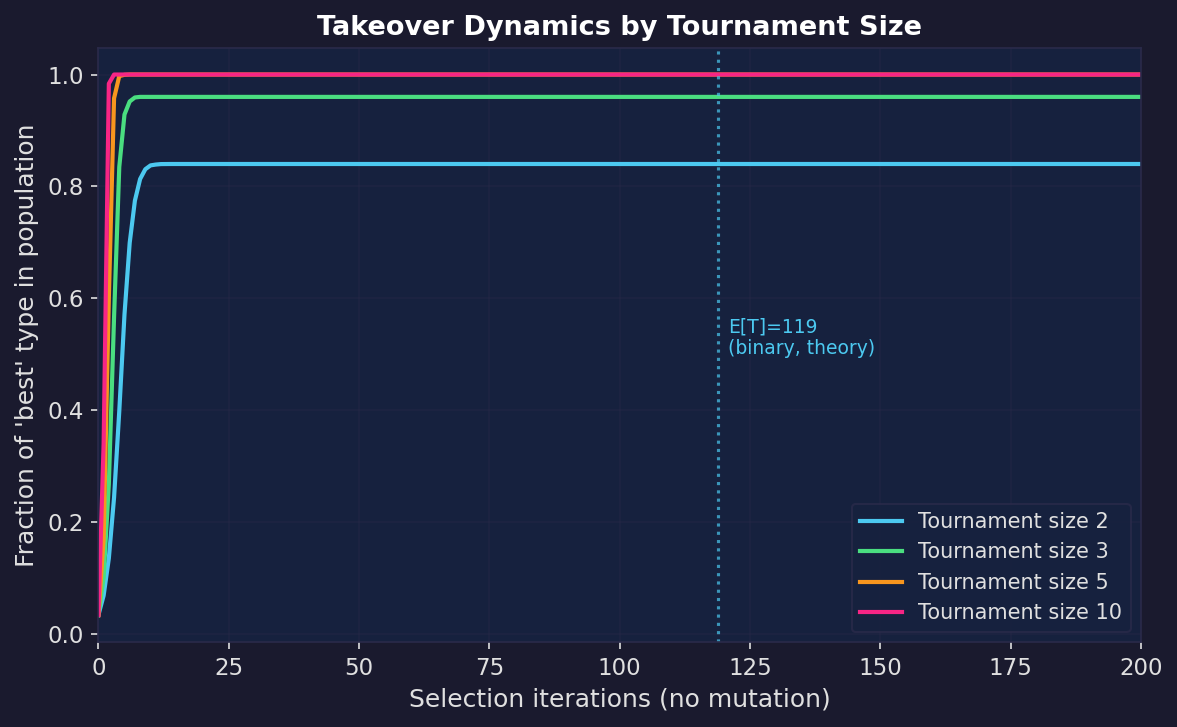
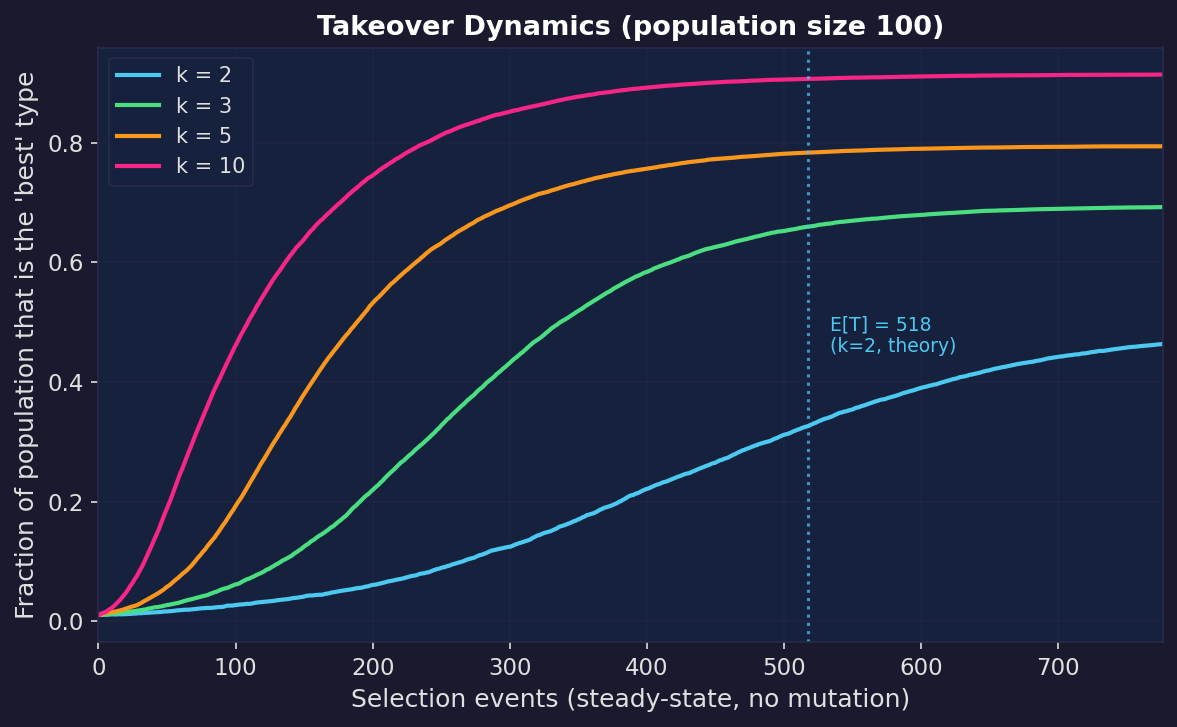
update takeover dynamics plot

diff --git a/evolution-diversity/animations/deeper_figures.py b/evolution-diversity/animations/deeper_figures.py
@@ -216,11 +216,15 @@ def make_time_series(save_path):
 # =====================================================================
 
 def make_takeover_curves(save_path):
-    pop_size = 30
-    max_iters = 300
+    pop_size = 100
     n_trials = 200
     tournament_sizes = [2, 3, 5, 10]
     colors = [ACCENT_BLUE, ACCENT_GREEN, ACCENT_ORANGE, ACCENT_RED]
+
+    # Theoretical takeover time for binary tournament (upper bound for x-axis)
+    H = sum(1.0 / k for k in range(1, pop_size))
+    theo_binary = pop_size * H
+    max_steps = int(theo_binary * 1.5)
 
     fig, ax = plt.subplots(figsize=(8, 5))
 
@@ -228,47 +232,43 @@ def make_takeover_curves(save_path):
         fraction_curves = []
         for trial in range(n_trials):
             rng = np.random.default_rng(trial)
-            # Track how many copies of the "best" type exist
-            # Start with 1 best individual out of pop_size
+            # Steady-state (non-generational): one replacement per step
             types = np.zeros(pop_size, dtype=int)
-            types[0] = 1  # individual 0 is "best"
+            types[0] = 1
+            record_every = max(1, max_steps // 500)
             fracs = [1.0 / pop_size]
 
-            for it in range(max_iters):
-                new_types = np.empty_like(types)
-                for j in range(pop_size):
-                    candidates = rng.choice(pop_size, min(ts, pop_size), replace=False)
-                    # Best type (1) wins tournament
-                    if np.any(types[candidates] == 1):
-                        new_types[j] = 1
-                    else:
-                        new_types[j] = 0
-                types = new_types
-                fracs.append(np.mean(types == 1))
-                if np.all(types == 1):
-                    # Pad rest with 1.0
-                    fracs.extend([1.0] * (max_iters - it - 1))
-                    break
+            for step in range(1, max_steps + 1):
+                # Pick one slot to replace via tournament
+                slot = rng.integers(pop_size)
+                candidates = rng.choice(pop_size, min(ts, pop_size), replace=False)
+                if np.any(types[candidates] == 1):
+                    types[slot] = 1
+                else:
+                    types[slot] = 0
+                if step % record_every == 0:
+                    fracs.append(np.mean(types == 1))
 
-            fraction_curves.append(fracs[:max_iters + 1])
+            fraction_curves.append(fracs)
 
+        # Align lengths
+        min_len = min(len(f) for f in fraction_curves)
+        fraction_curves = [f[:min_len] for f in fraction_curves]
         mean_frac = np.mean(fraction_curves, axis=0)
-        ax.plot(range(len(mean_frac)), mean_frac, color=color, linewidth=2,
-                label=f"Tournament size {ts}")
+        x_vals = np.arange(min_len) * record_every
+        ax.plot(x_vals, mean_frac, color=color, linewidth=2, label=f"k = {ts}")
 
-    # Theoretical takeover time for binary tournament: n * H_{n-1}
-    H = sum(1.0 / k for k in range(1, pop_size))
-    theo_binary = pop_size * H
     ax.axvline(theo_binary, color=ACCENT_BLUE, linestyle=":", alpha=0.7)
-    ax.text(theo_binary + 2, 0.5, f"E[T]={theo_binary:.0f}\n(binary, theory)",
+    ax.text(theo_binary + max_steps * 0.02, 0.45,
+            f"E[T] = {theo_binary:.0f}\n(k=2, theory)",
             color=ACCENT_BLUE, fontsize=9)
 
-    ax.set_xlabel("Selection iterations (no mutation)", fontsize=12)
-    ax.set_ylabel("Fraction of 'best' type in population", fontsize=12)
-    ax.set_title("Takeover Dynamics by Tournament Size", fontsize=13,
+    ax.set_xlabel("Selection events (steady-state, no mutation)", fontsize=12)
+    ax.set_ylabel("Fraction of population that is the 'best' type", fontsize=12)
+    ax.set_title("Takeover Dynamics (population size 100)", fontsize=13,
                  fontweight="bold", color="white")
     ax.legend(facecolor=PANEL_BG, edgecolor=GRID_COLOR, fontsize=10)
-    ax.set_xlim(0, 200)
+    ax.set_xlim(0, max_steps)
     ax.grid(True)
 
     fig.tight_layout()
